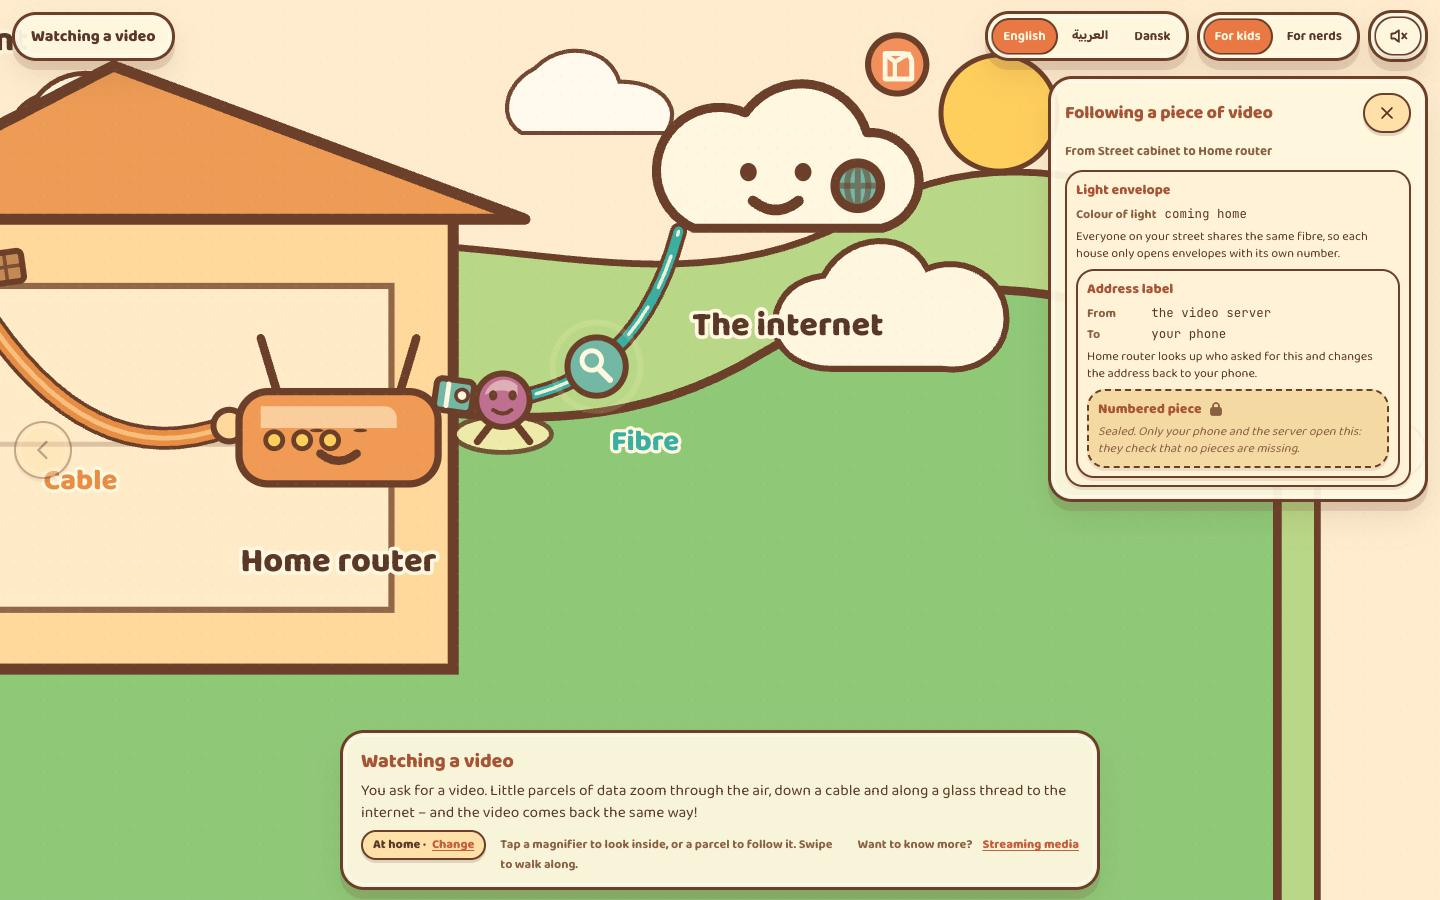
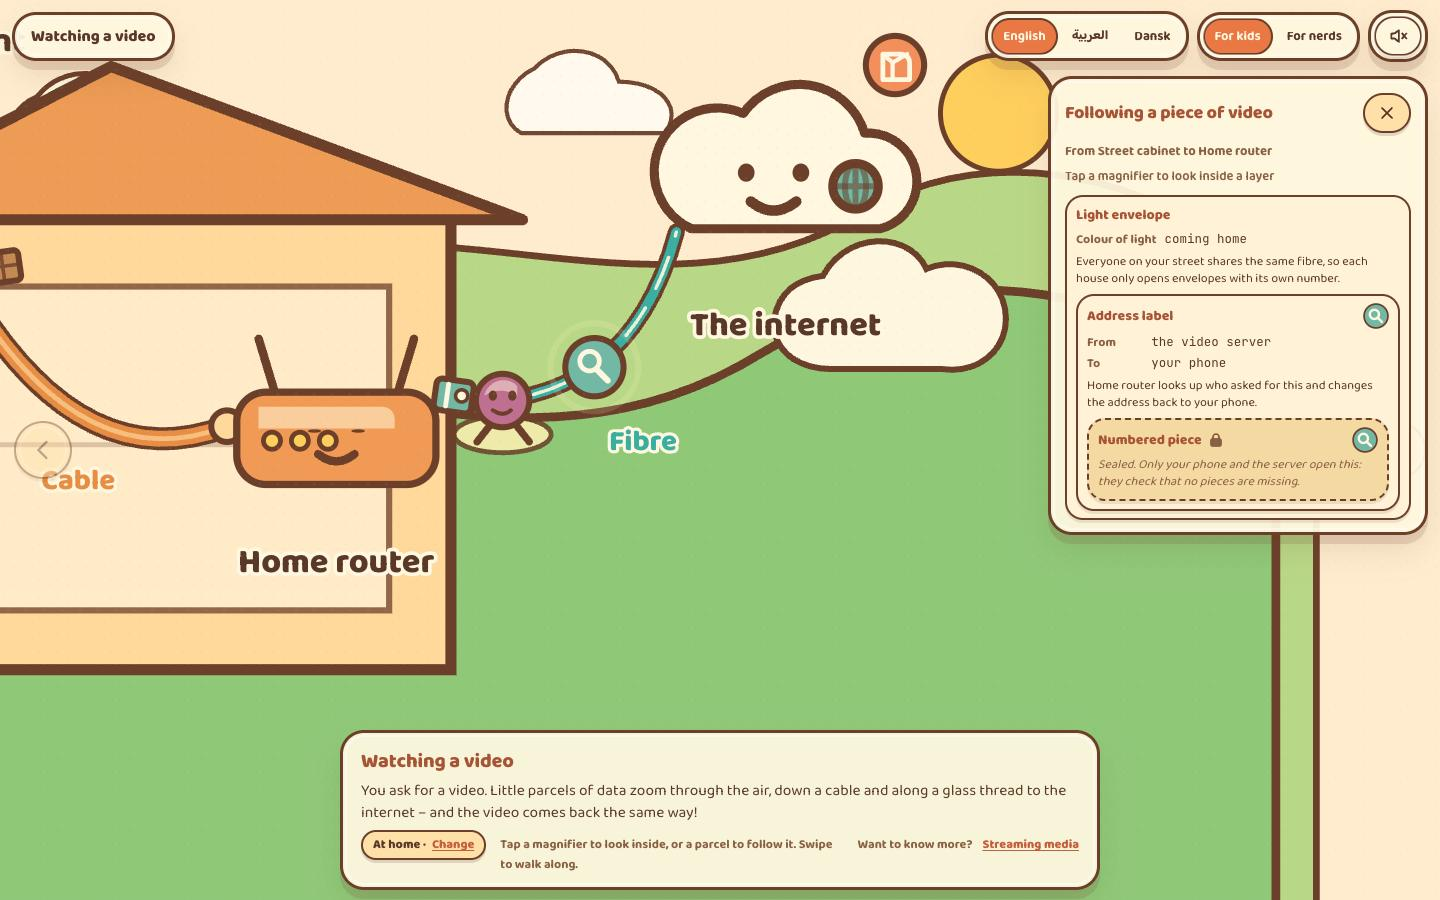
Document layer dives; evaluate them
authoring.md gains "Add a layer dive"; architecture.md covers the layer
subject, the ~ URL step, sideways stepping through the stack, the grow
transition and lazy dive scenes. evaluate.mjs measures opening, idling in
and stepping between layer dives, and shoots each dive in both views.

Copilot-Session: 4f58d17e-12f5-446f-869c-a7b9eea33154

diff --git a/docs/architecture.md b/docs/architecture.md
@@ -25,6 +25,7 @@ graph LR
   Hop -- "link: technology" --> Technology
   Technology -- "lower stack" --> Layer
   Technology -- "dive" --> Scene
+  Layer -- "dive" --> Scene
   Node -- "kind: network = expands" --> Group[sub-path scene]
 ```
 
@@ -32,8 +33,8 @@ graph LR
 |---|---|---|
 | **Node** | `content/nodes/<id>/` | A device or place on the path (phone, router, cell tower, CDN…). `kind` is `device` or `network` (a group, like `internet`, that unfolds into its own path scene). Its default `role` (`endpoint`, `bridge`, `router`, `nat`) decides which layers it opens and what it does to addresses. Art: `art/Device.svelte`. |
 | **Technology** | `content/technologies/<id>/` | What a link is made of (Wi‑Fi, Ethernet, GPON, 5G NR…). Its **lower layer stack**, a `look` (`radio`, `cable`, `fibre`, `trunk`: the theme draws each look), a colour, and optionally the **dive** scene that explains it. |
-| **Layer** | `content/layers/<id>/` | One envelope in a packet: HTTP, TLS, TCP, IP, Wi‑Fi, Ethernet, GPON, MPLS, VLAN, NR, GTP. `openAt` lists the roles that read it (TCP: only endpoints); `Layer.svelte` draws it in the peek panel from a `LayerCtx` (below). Issue #5. |
-| **Scene** | `content/scenes/<id>/` | A "look inside" dive (`wifi-radio`, `fibre-light`, `nr-radio`): `Scene.svelte` plus its own art and maths. It gets a `subject` (the link it explains), so one scene serves several technologies (the fibre dive draws GPON's two colours on the access fibre and DWDM elsewhere). |
+| **Layer** | `content/layers/<id>/` | One envelope in a packet: HTTP, TLS, TCP, IP, Wi‑Fi, Ethernet, GPON, MPLS, VLAN, NR, GTP. `openAt` lists the roles that read it (TCP: only endpoints); `Layer.svelte` draws it in the peek panel from a `LayerCtx` (below), and `dive` names the layer dive scene behind its magnifier. Issues #5, #8. |
+| **Scene** | `content/scenes/<id>/` | A "look inside" dive: `Scene.svelte` plus its own art and maths. It `explains` a **link** (`wifi-radio`, `fibre-light`, `nr-radio`) or a **layer at one hop** (`ip-post`, `tcp-pieces`, `tls-lock`, `gtp-tunnel`). It gets a `subject` (below), so one scene serves several technologies (the fibre dive draws GPON's two colours on the access fibre and DWDM elsewhere) or every hop (the IP dive is a signpost at a router, a swap notebook at a NAT, carrier-grade NAT at the mobile core). |
 | **Segment** | `content/segments/<id>/` | A reusable stretch of route (`isp-to-cdn`: ISP core → IXP → CDN, with transit as a dashed side branch). Hops, links, side branches, per-hop overrides and layout. |
 | **Place** | `content/places/<id>/` | A segment that starts at the reader's device and joins the shared network, plus a backdrop (`art/Backdrop.svelte`: the house, the street) and an `order` in the picker. |
 | **Activity** | `content/activities/<id>/` | What happens: the **flows** (upper stack `ip › tcp › tls › http`, and packet kinds with direction, pace and colour) and the **route** (`[{ place: 'me' }, { segment: 'isp-to-cdn' }]`), plus which network nodes expand. |
@@ -97,21 +98,27 @@ Import rules keep this honest (checked by `src/model/content.test.ts`):
 #/<lang>/<place>[+<place>…]/<activity>/<step>/<step>…/@<stop>     ?level=nerd  ?style=<theme>
 #/da/street/watch-video/internet/@mobile-core
 #/en/home/watch-video/internet/home-cabinet                         (three levels: the access fibre)
+#/en/home/watch-video/router~ip                                     (a layer dive: IP at the home router)
+#/da/street/watch-video/internet/mobile-core~ip                     (IP at the mobile core: carrier-grade NAT)
 ```
 
 1. **Location** (`model/location.ts`, `router.ts`). The hash is parsed into `{ lang, places, activity, path, stop }`.
    - Changing a scene or place pushes a history entry, so Back undoes a place switch. Changing the stop or the language replaces the entry.
-   - A path that no longer exists falls back to its longest valid prefix. For example, after switching to the street, the Wi‑Fi dive becomes the overview, and `internet/home-cabinet` becomes `internet`.
+   - A path that no longer exists falls back to its longest valid prefix. For example, after switching to the street, the Wi‑Fi dive becomes the overview, and `internet/home-cabinet` becomes `internet`. A layer dive survives a place switch when its hop is in both routes (`phone~tcp`); `router~ip` on the street becomes the overview.
 2. **Route** (`model/resolve.ts`). The activity's route steps are filled with the chosen places and segments and joined into one chain of hops and links. Each hop gets its node, role, address and group. Each link gets its technology, stack, dive and colour. The route also records which folder each part came from, so strings can be looked up from the most specific source.
 3. **Path scenes** (`model/layout.ts`). The root scene shows the hops outside any group, and each group collapses into one node. Expanding a group shows the hops inside it, with an *entry* node that stands for "where you came from" (the house, or the cell tower).
    - Placement comes from the place, segment and activity `layout`, per orientation. Unplaced nodes are spread along the spine.
    - Links are routed from their end nodes, with a `bend` or a hand-drawn `curve`.
 4. **Scene tree** (`model/tree.ts`).
-   - A path scene's children, in route order, are its expandable groups and its links that have a dive.
-   - A child sits at `DETAIL_SCALE` inside its anchor (the node, or the link's midpoint), to any depth.
+   - A path scene's children, in route order, are its expandable groups, its links that have a dive, and its **layer dives**: for every hop drawn in the scene (not groups, entries or asides), every layer with a `dive` on the links arriving at it. The step is `<hop>~<layer>`.
+   - A layer dive's subject is that hop's `LayerCtx`, in a canonical direction (the way the layer arrives upwards if it does, else downwards: the NAT sees the request go out, the phone the video come in), so the URL needs no direction. The scenes show the round trip anyway.
+   - A child sits at `DETAIL_SCALE` inside its anchor (the node, or the link's midpoint), to any depth. A hop's layer panels form a **vertical stack** centred on the node, lower layers below, so stepping between them is a flight up or down.
+   - `layerPath(route, hop, layer)` finds the scene in which a hop is drawn, so tapping IP in the peek at the root, for a packet at the cabinet, flies to `internet/cabinet~ip`.
    - Each mounted scene gets one flat transform from the root, computed in JS doubles, so three levels deep (1000×) stays sharp. Only the scenes along the flight and their near children are mounted.
 5. **Camera** (`engine/camera.ts`, `engine/zoom.ts`). Fly zoom and semantic zoom (pinch or scroll into a child and it opens; out, and it closes) work on the current scene, its parent and its children, never on hard-coded ids.
-   - Sideways stepping walks the stops of a path scene, or the sibling dives in route order (Wi‑Fi ↔ fibre at home; 5G ↔ fibre on the street).
+   - Layer dives are only reached by address (the peek, the URL, stepping), never discovered by pinching into a node: `mixes` and `decide` skip layer children that aren't on the current path, so pinching into a router still does what it did.
+   - Sideways stepping (`sideways` in `model/tree.ts`) walks the stops of a path scene, the sibling link dives in route order (Wi‑Fi ↔ fibre at home; 5G ↔ fibre on the street), or, in a layer dive, the layers of the same hop in stack order (▲/▼, a vertical flick, the arrow keys).
+   - **Into a layer dive from the peek:** the tapped envelope's rect is noted, the follow ends and the normal fly zoom starts; a DOM clone of the envelope is moved each frame from its peek rect to the dive panel's current on-screen rect, landing on it as the panel fades in (none with `prefers-reduced-motion`).
 6. **Packets** (`engine/packets.ts`). Each flow's packets run along every link of the scene at a per-link pace. Tapping one follows it, and the peek panel shows its layers at the current hop.
 
 ### The place morph
@@ -126,10 +133,15 @@ Packets restart on the new route, and the caption waits for the morph to finish.
 
 ## The context that content gets
 
-**Dive scenes** (`Scene.svelte`) get `{ subject }`:
-- `subject.link`: the route link it explains, with `tech`, `stack`, and the `from`/`to` hops.
-- `subject.sceneLink`: the link as drawn in the parent.
-- `subject.route`: the whole route.
+**Dive scenes** (`Scene.svelte`) get `{ subject }`, a `LinkSubject` or a `LayerSubject` (`subject.kind`):
+- link dives: `subject.link` (the route link it explains, with `tech`, `stack`, and the `from`/`to` hops),
+  `subject.sceneLink` (the link as drawn in the parent) and `subject.route` (the whole route);
+- layer dives: `subject.layer`, `subject.ctx` (the hop's `LayerCtx`, below, at the current level), `subject.open`
+  (whether the hop reads the layer, else it's sealed there) and `subject.route`. Captions look up
+  `scene.<id>.at.<node>`, then `.role.<role>`, then `.sealed`, then the plain strings.
+
+Dive scenes load on demand (`render/dives.svelte.ts`): a scene's chunk is fetched when the flight towards it starts,
+and the peek preloads the layer dives it offers.
 
 From `$core/api` they read `view` (time, orientation, level), `strings('scene.<id>')`, and draw with `Node` (a device in the current theme), `Text` (screen-size-aware text) and `TagAt`.
 
@@ -171,7 +183,8 @@ TCP, TLS and HTTP are sealed everywhere but the two ends. The IP layer shows the
 
 **The theme contract** (`render/theme-types.ts`) has only engine-level slots: `Defs`, `Backdrop` (sky and hills),
 `Device` (places the node art, adds a face and a focus ring, and a fallback body), `Link` (by `look`), `Packet`, `Hint`
-(`dive`, `expand`, `swap`), `Tag`, `Label`, `Panel` and `Overlay`. Scene-specific art (waves, prisms, beams) lives
+(`dive`, `expand`, `swap`), `Tag`, `Label`, `Panel` and `Overlay`. `Panel` gets a `kind` (`path`, `dive`, `layer`) and
+`sealed`: Storybook draws a layer dive as a big envelope with its flap at the top, dashed when sealed. Scene-specific art (waves, prisms, beams) lives
 in the scene's own folder, so a new dive needs no theme change.
 
 ## Strings and languages
@@ -184,7 +197,7 @@ in the scene's own folder, so a new dive needs no theme change.
   3. the item itself (`node.router`)
 - **English fallback.** Any missing string falls back to English. `npm run check:content` prints translation coverage.
 - **Bundling.** English ships in the main bundle. Other languages load on first use, one chunk each (about 6 kB gz for da), via the `virtual:string-packs` plugin in `vite.config.ts`. Adding a language therefore costs nothing for readers who don't pick it.
-- **RTL.** Arabic is the right-to-left test pack.
+- **RTL.** Arabic is the right-to-left test pack. Content is reviewed in English and Danish; the new layer dives fall back to English in Arabic (see issue #11).
 
 ## Learn more (issue #4)
 
@@ -208,6 +221,7 @@ zod never reaches the production bundle.
 - that the required English strings exist
 - that learn-more languages exist
 - that each layer and scene folder has its component
+- that technology and link dives point at link scenes, and layer dives at layer scenes
 
 In dev, problems go to the console and the Vite overlay:
 
@@ -219,7 +233,8 @@ Vitest (`npm test`) covers:
 - that the real content validates
 - negative fixtures
 - route resolution for every place
-- the scene tree and stale-path fallback
+- the scene tree and stale-path fallback, layer children per hop, stacked frames, `layerPath` and sideways stepping
+- layer dives: schema and validation (`dive` must point at a layer scene), URL round trip, never picked up by pinch
 - the layer stacks, roles, NAT/CGNAT and GTP per hop
 - the URL round trip
 - string fallback and lazy language packs
@@ -234,7 +249,11 @@ CI runs `npm ci && npm test && npm run build`.
 - idle, the fly into the fibre and back out
 - the fly three levels down and follow
 - the morph to the street, the fly into 5G, and the 5G dive idle
+- opening a layer dive from the peek (the envelope grows into the scene), its idle, a sideways step to the next
+  layer, and that layer's idle
 
-Every phase keeps p95 ≤ 16.8 ms (one frame at 60 Hz) at 6×, and CPU per frame is at most about 9 ms.
+Every phase keeps p95 ≤ 16.8 ms (one frame at 60 Hz) at 6×, and CPU per frame is at most about 11 ms (the fly into
+5G; opening a layer dive is about 8.6 ms).
 
-Initial JS is 64.0 kB gz, against 60.9 kB for the prototype.
+Initial JS is 64.1 kB gz, against 60.9 kB for the prototype. Layer dive scenes are lazy chunks (2–7 kB gz each), so
+adding dives doesn't grow the first load.

diff --git a/docs/authoring.md b/docs/authoring.md
@@ -132,7 +132,7 @@ defineTechnology({ look: 'radio' | 'cable' | 'fibre' | 'trunk', colour: '#rrggbb
 ## Add a layer (issue #5)
 
 `content/layers/<id>/`:
-- `layer.ts`: `defineLayer({ openAt?: ['endpoint', …], learnMore })`. `openAt` lists the roles that read it (TCP, TLS and HTTP: `['endpoint']`). Everyone else sees it sealed. The default is everyone.
+- `layer.ts`: `defineLayer({ openAt?: ['endpoint', …], dive?: '<scene>', learnMore })`. `openAt` lists the roles that read it (TCP, TLS and HTTP: `['endpoint']`). Everyone else sees it sealed. The default is everyone. `dive` points at a layer dive scene (see below): its envelope in the peek panel then gets a magnifier that flies into it.
 - `Layer.svelte`: gets `{ ctx, open, depth, children }` and renders an `<Envelope>` from `$core/api` with `name`, `fields`, `note` and `sealed`, then `{@render children?.()}` for the layers inside. `ctx` is the `LayerCtx`:
   - the link, and the `from`/`to` hops
   - the reader's `role`
@@ -147,6 +147,9 @@ Then reference it from a technology `stack`, a link override, or a flow `stack`.
 
 ## Add a dive scene
 
+A dive scene explains a link (`explains: 'link'`, the default: Wi-Fi, fibre, 5G) or a layer at one hop
+(`explains: 'layer'`, next section). Technologies and links may only point at link scenes, layers only at layer scenes.
+
 `content/scenes/<id>/`:
 - `scene.ts`: `defineScene({ learnMore })`.
 - `Scene.svelte`: gets `{ subject }`: the link it explains, with `subject.link.tech`, `subject.link.stack`, and its hops via `subject.route.hops[subject.link.from]`. It draws in the scene world (landscape 1600×900, portrait 900×1600; read `view.orient`). Build it from:
@@ -158,6 +161,43 @@ Then reference it from a technology `stack`, a link override, or a flow `stack`.
 - Strings: `title` (required) and `kid`/`nerd`. Per-technology variants such as `gpon.title` or `gpon.kid` win when the subject is that technology.
 
 Point a technology's `dive` at it, or a single link's `dive`.
+
+## Add a layer dive
+
+A layer dive is one layer as seen at one hop: IP at the home router, TCP at your phone. Readers get there by tapping a
+magnifier on an envelope in the peek panel (or by URL: `#/en/home/watch-video/router~ip`), and step up and down the
+stack of the same hop with the ▲/▼ buttons, a vertical flick or the arrow keys. **One scene serves every hop**, so it
+adapts to where it is opened rather than having near-duplicates (the IP dive is a signpost at a router, a swap
+notebook at a NAT, a carrier-grade NAT at the mobile core, an envelope swap at a bridge, a door plate at an endpoint).
+
+`content/scenes/<id>/`:
+- `scene.ts`: `defineScene({ explains: 'layer', learnMore })`.
+- `Scene.svelte`: gets `{ subject }`, a `LayerSubject` (`import type { LayerSubject } from '$core/api'`):
+  - `subject.layer`: the layer id; `subject.open`: whether this hop reads it (else it is sealed here);
+  - `subject.ctx`: the hop's `LayerCtx`, as in `Layer.svelte`: `to` (this hop, with its `role`), `link` (the link
+    it arrived on), `client`/`server`, `src`/`dst`, `nat`, `ttl`, `dir`, `flow` and `level`;
+  - `subject.route`: the whole route (`chain`, `links`, `asides`, `activity`), to build what the hop knows from it
+    (the IP dive derives a router's signposts from the next and previous hops).
+- Vary by context, most general first: `subject.open` (open vs sealed), `ctx.to.role` (`endpoint`, `nat`, `router`,
+  `bridge`), then facts (`ctx.nat`, the link's `stack`). Avoid naming node ids.
+- Draw it like the other layer dives so they read as a family: a road along the bottom with the client, the server
+  and this hop (`Node`, focused) and names under them (`nameOf`); paper cards above it for the close-up; big
+  walking parcels. Keep the flap at the top centre of the panel empty (the envelope panel is drawn there).
+  Portrait (900×1600) and landscape (1600×900) are both needed; a short landscape screen (a phone on its side)
+  benefits from a compact layout with bigger text and fewer labels (see `layoutFor` in `scenes/ip-post/post.ts`).
+  Text never draws smaller than the theme's minimum on screen, so check the portrait phone for overlaps.
+- Loop on `view.time` with a pure maths file (as `ip-post/post.ts`), so screenshots at a fixed clock are stable.
+- Strings (`locales/en.json`, `da.json`), looked up most specific first for `title` and `kid`/`nerd`:
+  1. `at.<node id>` (one hop, e.g. `at.mobile-core` for carrier-grade NAT)
+  2. `role.<role>` (e.g. `role.nat`)
+  3. `sealed` (when this hop can't open the layer)
+  4. the plain `title`/`kid`/`nerd`
+
+  `{hop}` (this hop's name), `{yours}` ("your phone") and `{layer}` are filled in. Scene labels are your own keys,
+  read with `strings('scene.<id>')`; nerd callouts conventionally live under `tag.*`.
+
+Then set `dive: '<id>'` in `content/layers/<layer>/layer.ts`. The layer panels of a hop stack vertically around it in
+its path scene, so nothing else needs a layout. Dive scenes are loaded on demand, so they cost nothing at start-up.
 
 ## Add a segment
 
@@ -217,6 +257,6 @@ Add it to the `learnMore` list of the definition it explains (node, technology, 
 
 - [ ] The folder name is the id; every hop, link and layer name exists (the dev overlay says what doesn't).
 - [ ] `locales/en.json` has the required strings; `da.json` if you can.
-- [ ] Layout for both `landscape` and `portrait` on every path scene the item appears in.
+- [ ] Layout for both `landscape` and `portrait` on every path scene the item appears in (and in dive scenes).
 - [ ] `npm test` and `npm run build` pass; have a look in `npm run dev` in both orientations.
 - [ ] `npm run evaluate` if it adds animation (budget: p95 within one frame at 6× CPU throttle).
